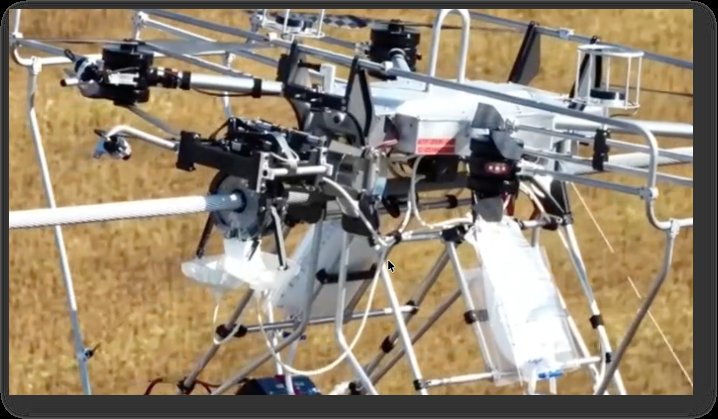
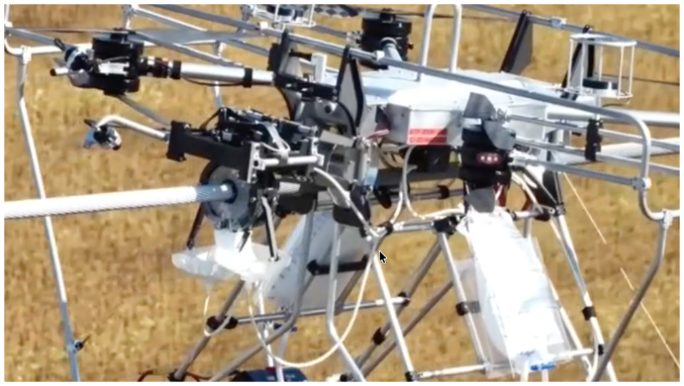
fix: re-crop DCAM photo with pixel-detected bounds; reduce headshot size

diff --git a/index.html b/index.html
@@ -78,8 +78,8 @@
   .hero{padding:clamp(56px,9vw,120px) 0 clamp(40px,6vw,72px)}
   .hero-intro{display:flex;align-items:center;gap:clamp(.85rem,3vw,1.25rem);margin-bottom:1.6rem}
   .hero-intro .eyebrow{margin-bottom:0}
-  .headshot{width:clamp(96px,22vw,120px);height:clamp(96px,22vw,120px);object-fit:cover;flex-shrink:0;border-radius:50%;filter:grayscale(35%)}
-  @media(max-width:380px){.headshot{width:96px;height:96px}}
+  .headshot{width:clamp(64px,14vw,84px);height:clamp(64px,14vw,84px);object-fit:cover;flex-shrink:0;border-radius:50%;filter:grayscale(35%)}
+  @media(max-width:380px){.headshot{width:64px;height:64px}}
   .hero h1{font-family:'Space Grotesk',sans-serif;font-weight:600;
     font-size:clamp(2.4rem,6.4vw,4.5rem);line-height:1.02;letter-spacing:-.03em;max-width:16ch}
   .hero h1 em{font-style:normal;color:var(--signal)}
@@ -293,7 +293,7 @@
             <source srcset="assets/dcam-linedrone-hydroquebec.webp" type="image/webp">
             <img src="assets/dcam-linedrone-hydroquebec.jpg"
               alt="DCAM coating module mounted on a LineDrone UAV above a power-grid conductor during the Hydro-Québec field trial."
-              width="718" height="419" loading="lazy">
+              width="684" height="386" loading="lazy">
           </picture>
           <figcaption class="fig-caption">
             <span class="fig-caption-desc">DCAM module (centre) on LineDrone — Hydro-Québec field trial</span>
@@ -366,7 +366,7 @@
           <source srcset="assets/dcam-linedrone-hydroquebec.webp" type="image/webp">
           <img src="assets/dcam-linedrone-hydroquebec.jpg"
             alt="DCAM coating module mounted on a LineDrone UAV above a power-grid conductor during the Hydro-Québec field trial."
-            width="718" height="419" loading="lazy">
+            width="684" height="386" loading="lazy">
         </picture>
         <figcaption class="fig-caption">
           <span class="fig-caption-desc">DCAM module (centre) on LineDrone — Hydro-Québec field trial</span>

diff --git a/scripts/crop_assets.py b/scripts/crop_assets.py
@@ -1,0 +1,132 @@
+#!/usr/bin/env python3
+"""Pixel-detected crop for portfolio image assets."""
+
+from __future__ import annotations
+
+import argparse
+import sys
+from pathlib import Path
+
+from PIL import Image
+import numpy as np
+
+ROOT = Path(__file__).resolve().parent.parent
+SOURCES = ROOT / "notebook" / "media" / "sources"
+ASSETS = ROOT / "assets"
+
+LUM_THRESHOLD = 60
+INSET_START = 6
+INSET_STEP = 2
+MAX_ATTEMPTS = 5
+BORDER_PX = 3
+BORDER_MIN_LUM = 40
+
+
+def luminance(rgb: np.ndarray) -> np.ndarray:
+    r, g, b = rgb[..., 0], rgb[..., 1], rgb[..., 2]
+    return (0.299 * r + 0.587 * g + 0.114 * b).astype(np.float32)
+
+
+def content_bbox(gray: np.ndarray, threshold: float) -> tuple[int, int, int, int]:
+    ys, xs = np.where(gray > threshold)
+    if len(xs) == 0:
+        raise ValueError("no content pixels found above luminance threshold")
+    return int(xs.min()), int(ys.min()), int(xs.max()) + 1, int(ys.max()) + 1
+
+
+def inset_box(box: tuple[int, int, int, int], inset: int, w: int, h: int) -> tuple[int, int, int, int]:
+    left, top, right, bottom = box
+    left = min(max(0, left + inset), w - 1)
+    top = min(max(0, top + inset), h - 1)
+    right = max(left + 1, min(w, right - inset))
+    bottom = max(top + 1, min(h, bottom - inset))
+    return left, top, right, bottom
+
+
+def assert_border_luminance(gray: np.ndarray, border_px: int, min_lum: float) -> None:
+    h, w = gray.shape
+    if h < border_px * 2 or w < border_px * 2:
+        raise AssertionError(f"image too small for {border_px}px border check")
+    regions = [
+        gray[:border_px, :].ravel(),
+        gray[-border_px:, :].ravel(),
+        gray[border_px:-border_px, :border_px].ravel(),
+        gray[border_px:-border_px, -border_px:].ravel(),
+    ]
+    border = np.concatenate(regions)
+    dark = border[border < min_lum]
+    if len(dark) > 0:
+        raise AssertionError(
+            f"border assertion failed: {len(dark)} pixels in outer {border_px}px "
+            f"have luminance < {min_lum} (min={float(dark.min()):.1f})"
+        )
+
+
+def crop_with_assertion(im: Image.Image, inset_start: int = INSET_START) -> Image.Image:
+    rgb = np.array(im.convert("RGB"))
+    gray = luminance(rgb)
+    h, w = gray.shape
+    box = content_bbox(gray, LUM_THRESHOLD)
+
+    for attempt in range(MAX_ATTEMPTS):
+        inset = inset_start + attempt * INSET_STEP
+        crop_box = inset_box(box, inset, w, h)
+        cropped = im.crop(crop_box)
+        crop_gray = luminance(np.array(cropped.convert("RGB")))
+        try:
+            assert_border_luminance(crop_gray, BORDER_PX, BORDER_MIN_LUM)
+            print(f"crop ok: inset={inset}px box={crop_box}", file=sys.stderr)
+            return cropped
+        except AssertionError as exc:
+            print(f"attempt {attempt + 1}: {exc}", file=sys.stderr)
+
+    raise SystemExit("border assertion failed after max attempts; assets not updated")
+
+
+def export_dcam(im: Image.Image) -> tuple[int, int]:
+    jpg_path = ASSETS / "dcam-linedrone-hydroquebec.jpg"
+    webp_path = ASSETS / "dcam-linedrone-hydroquebec.webp"
+    rgb = im.convert("RGB")
+
+    for q in (82, 78, 75, 70):
+        rgb.save(jpg_path, "JPEG", quality=q, optimize=True)
+        if jpg_path.stat().st_size < 150_000:
+            break
+
+    rgb.save(webp_path, "WEBP", quality=82, method=6)
+    print(f"exported {jpg_path.name}: {jpg_path.stat().st_size}B q~{q}")
+    print(f"exported {webp_path.name}: {webp_path.stat().st_size}B")
+    return rgb.size
+
+
+def crop_dcam() -> tuple[int, int]:
+    src = SOURCES / "dcam-linedrone-hydroquebec.png"
+    if not src.exists():
+        raise SystemExit(f"missing source: {src}")
+    im = Image.open(src)
+    cropped = crop_with_assertion(im)
+    return export_dcam(cropped)
+
+
+def headshot() -> None:
+    """Future: crop Headshot-photo.png when restored to notebook/media/sources/.
+
+    - Bbox of pixels with luminance > 45
+    - Scale crop region down 6% about center
+    - Export 480x480 jpg <60KB with border-luminance assertion
+    """
+    raise NotImplementedError("headshot source PNG not available; CSS-only change for now")
+
+
+def main() -> None:
+    parser = argparse.ArgumentParser(description="Crop portfolio image assets")
+    parser.add_argument("--dcam", action="store_true", help="Re-crop DCAM field photo")
+    args = parser.parse_args()
+    if not args.dcam:
+        parser.error("specify --dcam")
+    w, h = crop_dcam()
+    print(f"{w}x{h}")
+
+
+if __name__ == "__main__":
+    main()